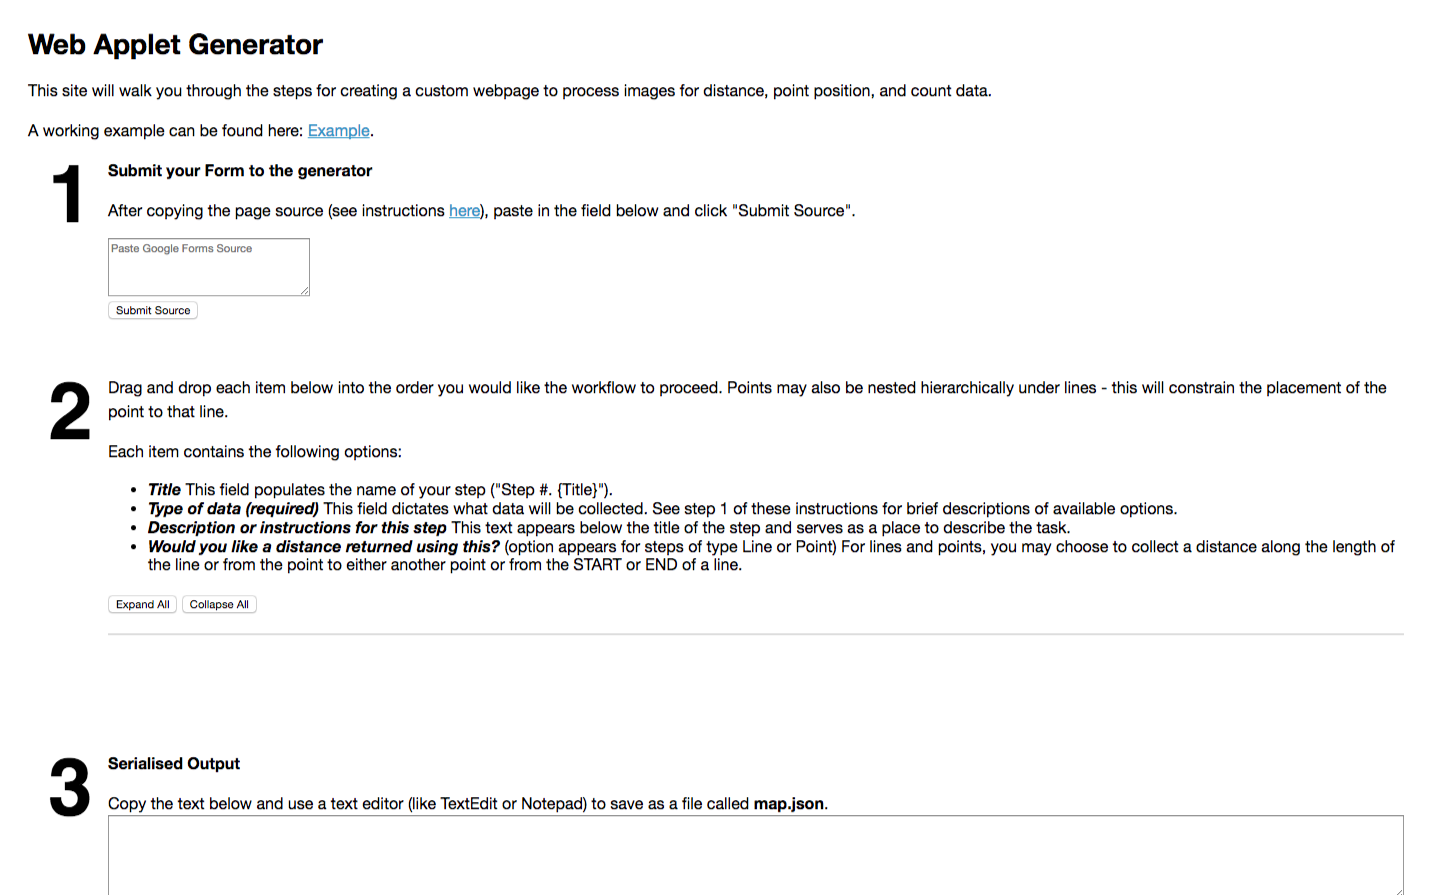
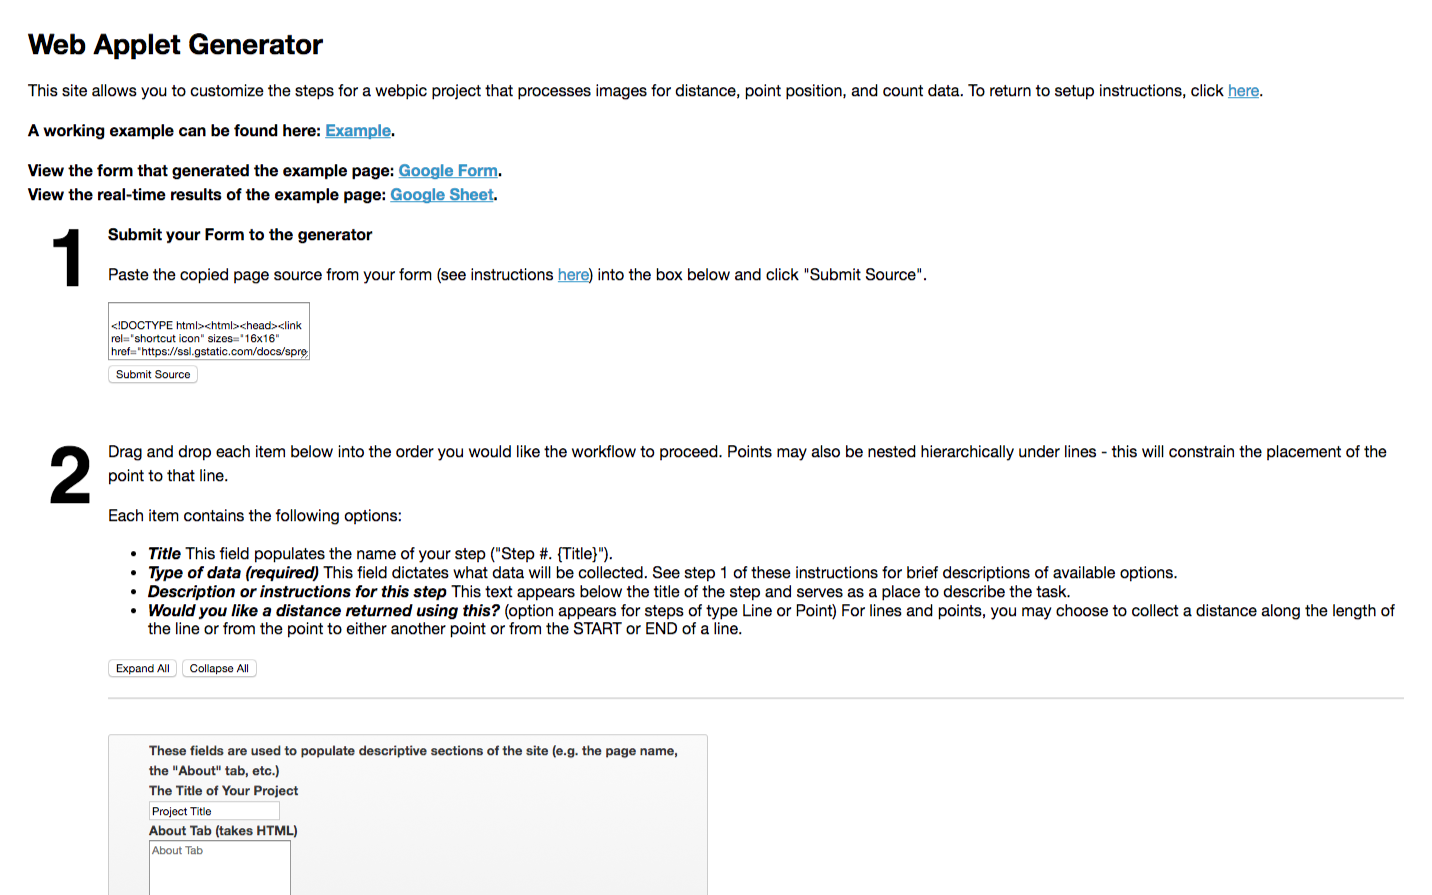
Small updates to generator

Changed region(s): [[0.0, 0.181, 0.9832, 0.7844], [0.0307, 0.8145, 0.5838, 0.9654], [0.0307, 0.0905, 0.8911, 0.1508]]

diff --git a/generator/index.html b/generator/index.html
@@ -160,11 +160,13 @@ p { line-height: 1.5em; }
 
     <h1>Web Applet Generator</h1>
     <p>This site allows you to customize the steps for a webpic project that processes images for distance, point position, and count data.  To return to setup instructions, click <a href="https://github.com/lucymchang/webpic/wiki/Setup">here</a>.</p>
-    <p>A working example can be found here: <a href="../" target="_blank">Example</a>.
+    <p><strong>A working example can be found here: <a href="https://www.ocf.berkeley.edu/~luchang/webpic/example">Example</a>.</strong></p>
+    <p><strong>View the form that generated the example page: <a href="https://docs.google.com/a/berkeley.edu/forms/d/1gIQgFDxJWClwS8n9Yjv_fG5S5OrcoNkDJU0fkeDgEv8/viewform">Google Form</a>.</strong><br>
+    <strong>View the real-time results of the example page: <a href="https://docs.google.com/spreadsheets/d/1ag88baUw2dVWqyNwnoD0wjA1gOGlFA1Dbeg4Av3mjCE/edit?usp=sharing">Google Sheet</a>.</strong></p>
     <div class="howTo">
   	<div class="step">
         <p><strong>Submit your Form to the generator</strong></p>
-        <p>After copying the page source (see instructions <a href="https://github.com/lucymchang/webpic/wiki/Setup#step-2-customize-steps-using-the-webpic-generator">here</a>), paste in the field below and click "Submit Source".</p>
+        <p>Paste the copied page source from your form (see instructions <a href="https://github.com/lucymchang/webpic/wiki/Setup#step-2-customize-steps-using-the-webpic-generator">here</a>) into the box below and click "Submit Source".</p>
         <textarea rows="4" cols="30" id="formSource" placeholder="Paste Google Forms Source"></textarea><br />
         <button onClick="loadItems()">Submit Source</button>
     </div>
@@ -192,7 +194,7 @@ p { line-height: 1.5em; }
     </div>
     <div class="step">
         <p><strong>Serialised Output</strong></p>
-        <p>Copy the text below and use a text editor (like TextEdit or Notepad) to save as a file called <strong>map.json</strong>.
+        <p>Copy the text below and use a text editor (like TextEdit or Notepad) to save as a file called <strong>map.json</strong>.</p>
     
         <textarea id="items-output"></textarea>
     </div>
